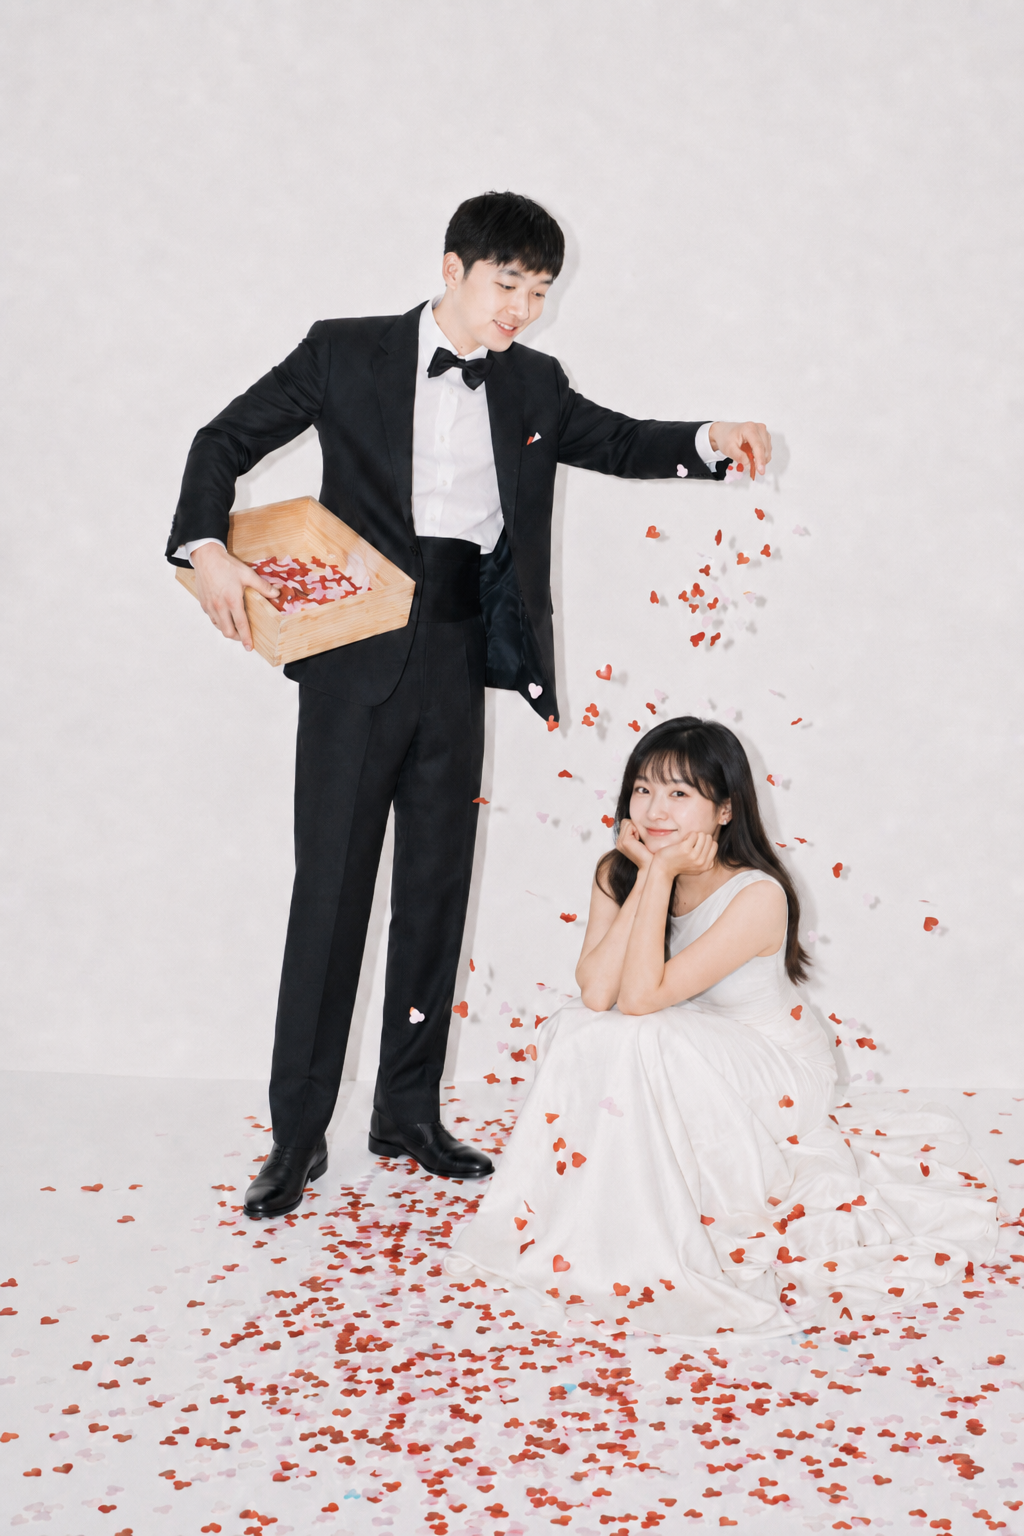
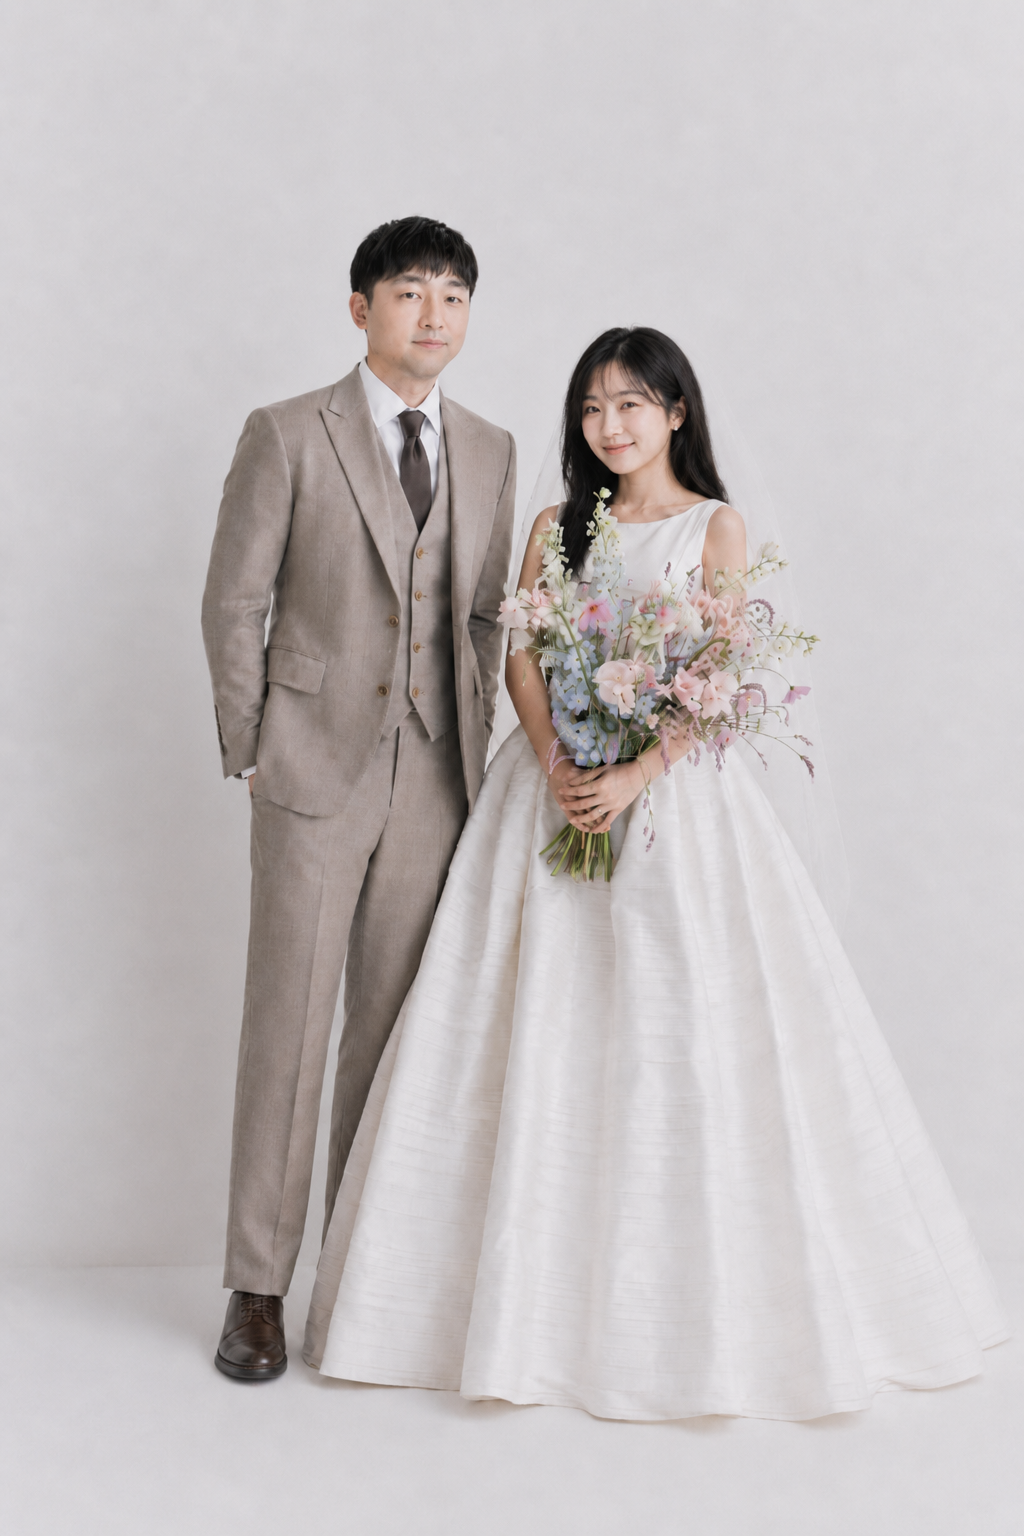
스튜디오 갤러리 1~6으로 축소(7,8 삭제) 및 수정본 캐시 무효화(4~6 ?v=3)

diff --git a/pages/studio.html b/pages/studio.html
@@ -38,19 +38,13 @@
               <img src="../assets/img/ive/3.jpg?v=2" data-target="#indicators" alt="" /> 
             </div>
             <div class="col-12 col-md-6 col-lg-3">
-              <img src="../assets/img/ive/4.jpg?v=2" data-target="#indicators" alt="" /> 
+              <img src="../assets/img/ive/4.jpg?v=3" data-target="#indicators" alt="" /> 
             </div>
             <div class="col-12 col-md-6 col-lg-3">
-              <img src="../assets/img/ive/5.jpg?v=2" data-target="#indicators" alt="" /> 
+              <img src="../assets/img/ive/5.jpg?v=3" data-target="#indicators" alt="" /> 
             </div>
             <div class="col-12 col-md-6 col-lg-3">
-              <img src="../assets/img/ive/6.jpg?v=2" data-target="#indicators" alt="" /> 
-            </div>
-            <div class="col-12 col-md-6 col-lg-3">
-              <img src="../assets/img/ive/7.jpg?v=2" data-target="#indicators" alt="" /> 
-            </div>
-            <div class="col-12 col-md-6 col-lg-3">
-              <img src="../assets/img/ive/8.jpg?v=2" data-target="#indicators" alt="" /> 
+              <img src="../assets/img/ive/6.jpg?v=3" data-target="#indicators" alt="" /> 
             </div>
         </div>
         </div>